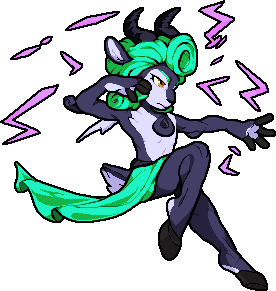
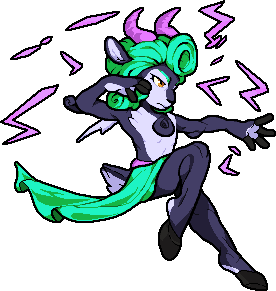
Updates revisions and fixes ahead of HF 3
-revised hf absa skin added (with the pink horns+waistline)
-loa absa added
-dark purple/teal hf orcane as a second skin option added
-revised hf sk skin with lighter armor added
-wrastors skin code fixed to give the correct skin

Changed region(s): [[0.4348, 0.0309, 0.6377, 0.1546], [0.4638, 0.5258, 0.5507, 0.5876]]

diff --git a/index.html b/index.html
@@ -33,7 +33,7 @@
 		<a href="#maypul"><img class="stock_icon" src="img/stock_icons/maypul_stock.png"></a>
 		<a href="#mollo_1"><img class="stock_icon" src="img/stock_icons/mollo_stock.png"></a>
 		<a href="#olympia"><img class="stock_icon" src="img/stock_icons/olympia_stock.png"></a>
-		<a href="#orcane"><img class="stock_icon" src="img/stock_icons/orcane_stock.png"></a>
+		<a href="#orcane_1"><img class="stock_icon" src="img/stock_icons/orcane_stock.png"></a>
 		<a href="#ori_and_sein_1"><img class="stock_icon" src="img/stock_icons/ori_and_sein_stock.png"></a>
 		<a href="#pomme"><img class="stock_icon" src="img/stock_icons/pomme_stock.png"></a>
 		<a href="#ranno"><img class="stock_icon" src="img/stock_icons/ranno_stock.png"></a>
@@ -49,8 +49,19 @@
 			<figure>
 				<img class="custom_css" src="img/custom_css/absa_HF.png">
 				<figcaption>
-					<p class="code">433E-661D-F4C3-E97A-FF2F-2C42-E2DE-FFB0</p>
+					<p class="code">433E-661D-F4C3-E97A-FFE9-7AFF-E2DE-FF80</p>
 					<button class="btn" onclick="CopyToClip('absa')">Copy to clipboard</button>
+				</figcaption>
+			</figure>
+		</div>
+
+		<div class="sect" id="absaloa">
+			<h1>Lovers of Aether Absa</h1>
+			<figure>
+				<img class="custom_css" src="img/custom_css/absa_LoA_HF.png">
+				<figcaption>
+					<p class="code">433E-661D-F4C3-E97A-FF2F-2C42-E2DE-FFB0</p>
+					<button class="btn" onclick="CopyToClip('absaloa')">Copy to clipboard</button>
 				</figcaption>
 			</figure>
 		</div>
@@ -172,13 +183,23 @@
 			</figure>
 		</div>
 
-		<div class="sect" id="orcane">
+		<div class="sect" id="orcane_1">
 			<h1>Orcane</h1>
 			<figure>
-				<img class="custom_css" src="img/custom_css/orcane_HF.png">
+				<img class="custom_css" src="img/custom_css/orcane_HF_1.png">
 				<figcaption>
 					<p class="code">18F4-C3EB-7AFF-7500</p>
-					<button class="btn" onclick="CopyToClip('orcane')">Copy to clipboard</button>
+					<button class="btn" onclick="CopyToClip('orcane_1')">Copy to clipboard</button>
+				</figcaption>
+			</figure>
+		</div>
+
+		<div class="sect" id="orcane_2">
+			<figure>
+				<img class="custom_css" src="img/custom_css/orcane_HF_2.png">
+				<figcaption>
+					<p class="code">433D-6618-F4C3-BB00</p>
+					<button class="btn" onclick="CopyToClip('orcane_2')">Copy to clipboard</button>
 				</figcaption>
 			</figure>
 		</div>
@@ -230,7 +251,7 @@
 			<figure>
 				<img class="custom_css" src="img/custom_css/shovel_knight_HF.png">
 				<figcaption>
-					<p class="code">554F-7824-1C45-18F4-C3EA-7AFF-6200</p>
+					<p class="code">7C71-AD24-1C45-18F4-C3EA-7AFF-A400</p>
 					<button class="btn" onclick="CopyToClip('shovel_knight')">Copy to clipboard</button>
 				</figcaption>
 			</figure>
@@ -252,7 +273,7 @@
 			<figure>
 				<img class="custom_css" src="img/custom_css/wrastor_HF.png">
 				<figcaption>
-					<p class="code">2D25-4DCC-81DB-17F4-C351-4A70-DFD9-FF85</p>
+					<p class="code">2D25-4DE8-7AFF-17F4-C351-4A70-DFD9-FF7C</p>
 					<button class="btn" onclick="CopyToClip('wrastor')">Copy to clipboard</button>
 				</figcaption>
 			</figure>
